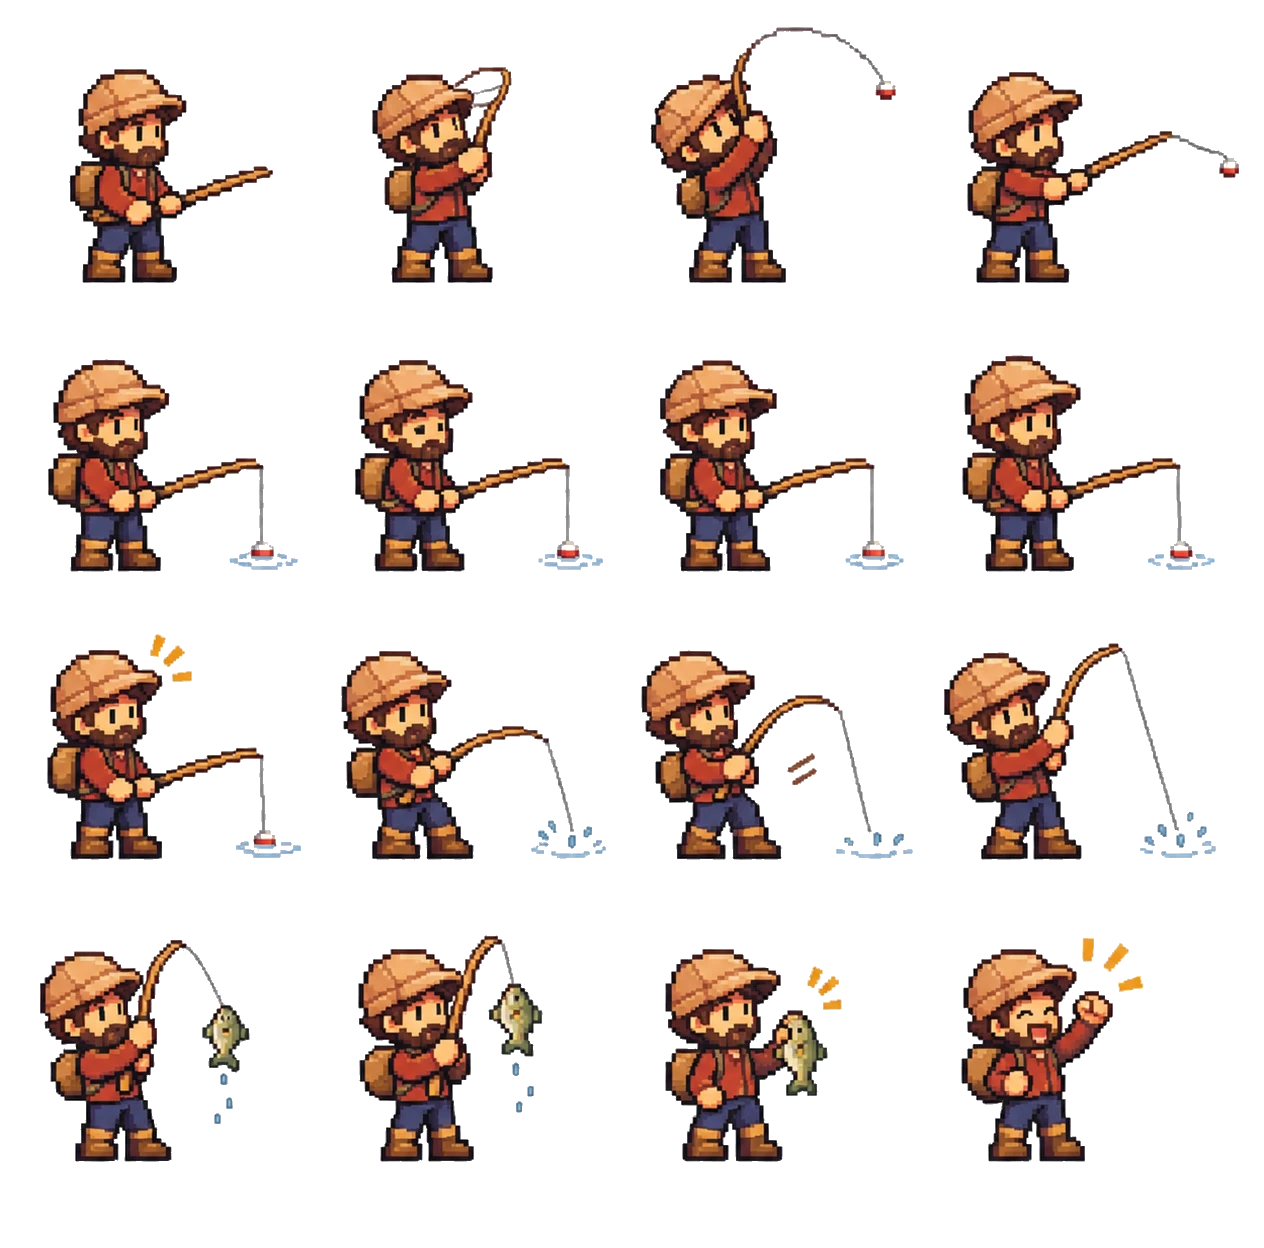
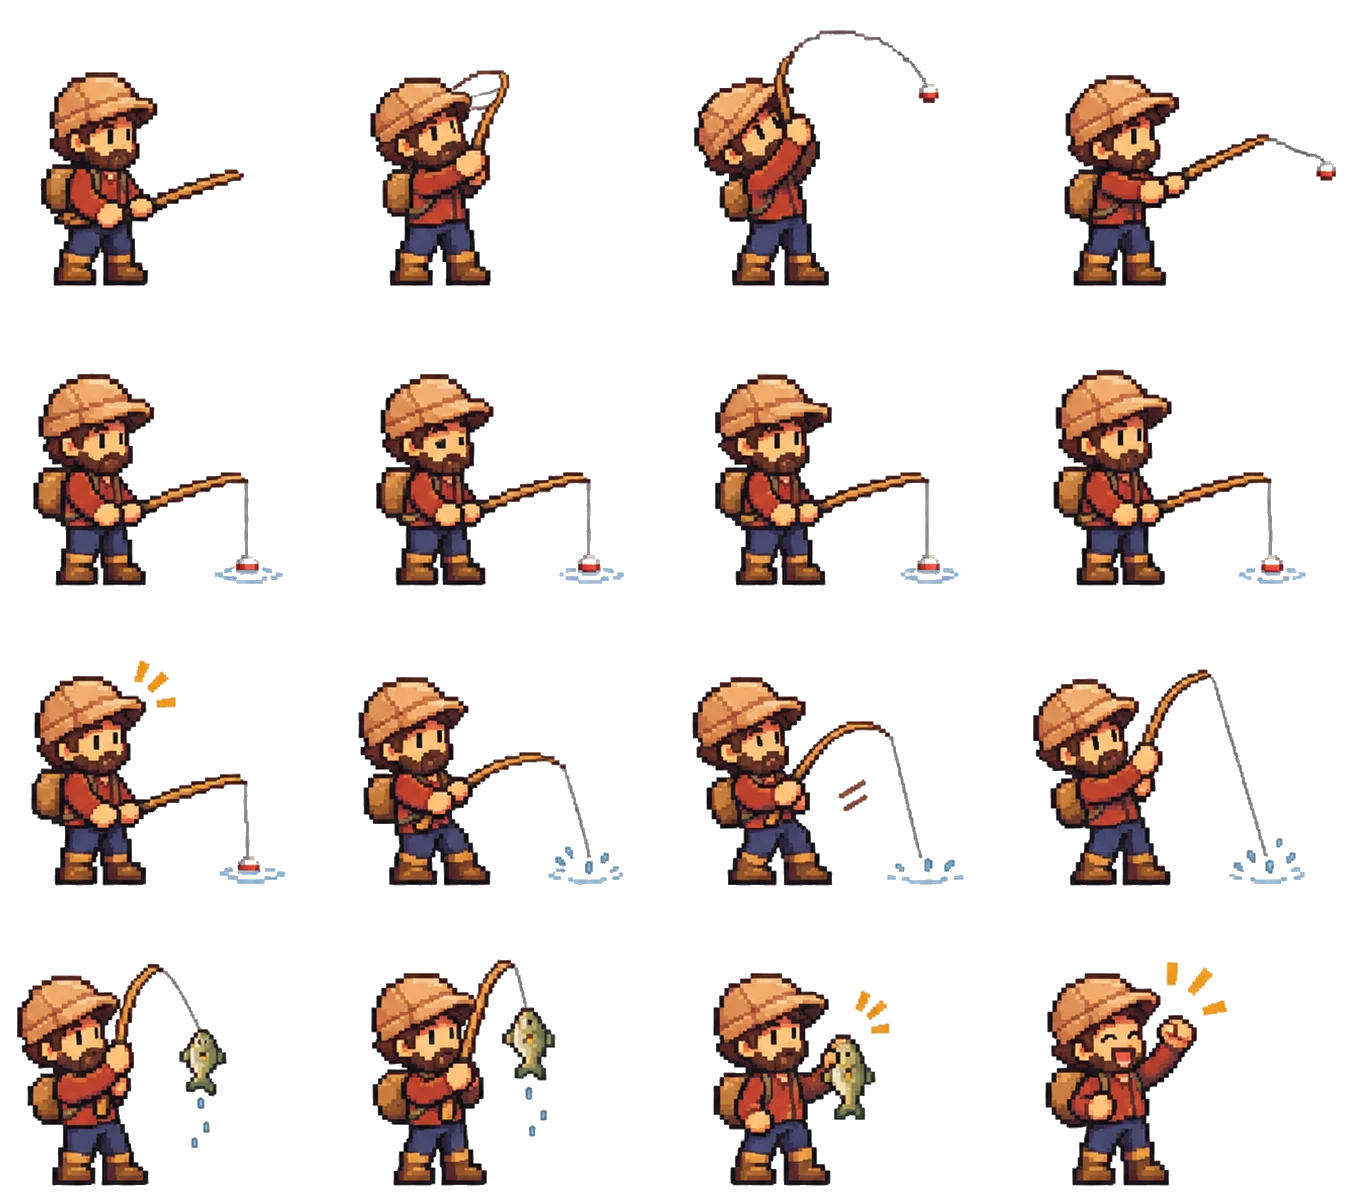
Align the fisherman frames so he doesn't jump (#8)
The source sheet's frames sit at uneven positions, so cutting it in an
even grid moved the figure between frames. The sheet is rebuilt as an
even 4x4 grid of 340x300 cells with the boots at the same spot in every
frame, and neighbouring figures cut off.

diff --git a/src/components/LakeScene.tsx b/src/components/LakeScene.tsx
@@ -9,11 +9,14 @@ type Props = {
 /** Size of the background image; the scene uses its pixels as coordinates. */
 const SCENE = { width: 1672, height: 941 }
 
-/** The fisherman sprite sheet: 4 × 4 frames, numbered 1–16 row by row. */
-const SHEET = { columns: 4, frameWidth: 316, frameHeight: 312, width: 1264, height: 1248 }
+/**
+ * The fisherman sprite sheet: 4 × 4 frames, numbered 1–16 row by row. Every frame has the boots at
+ * the same spot (x 100, y 285), so switching frames never moves him.
+ */
+const SHEET = { columns: 4, frameWidth: 340, frameHeight: 300, width: 1360, height: 1200 }
 
 /** Where the fisherman stands: on the end of the dock. */
-const FISHER_BOX = { x: 640, y: 260, width: 221, height: 218 }
+const FISHER_BOX = { x: 660, y: 258, width: 238, height: 210 }
 
 /** Still frame per phase. Frames 5–8 (waiting) only appear in the animation. */
 const FRAME_BY_PHASE: Record<Phase, number> = {

diff --git a/src/components/LakeScene.test.tsx b/src/components/LakeScene.test.tsx
@@ -30,8 +30,8 @@ describe('LakeScene', () => {
   })
 
   it('crops the sprite sheet to the frame of the phase', () => {
-    // 4 columns of 316 × 312 px: frame 11 is column 3, row 3.
+    // 4 columns of 340 × 300 px: frame 11 is column 3, row 3.
     const fisher = renderScene('reeling').querySelector('#fisherman')
-    expect(fisher).toHaveAttribute('viewBox', '632 624 316 312')
+    expect(fisher).toHaveAttribute('viewBox', '680 600 340 300')
   })
 })
